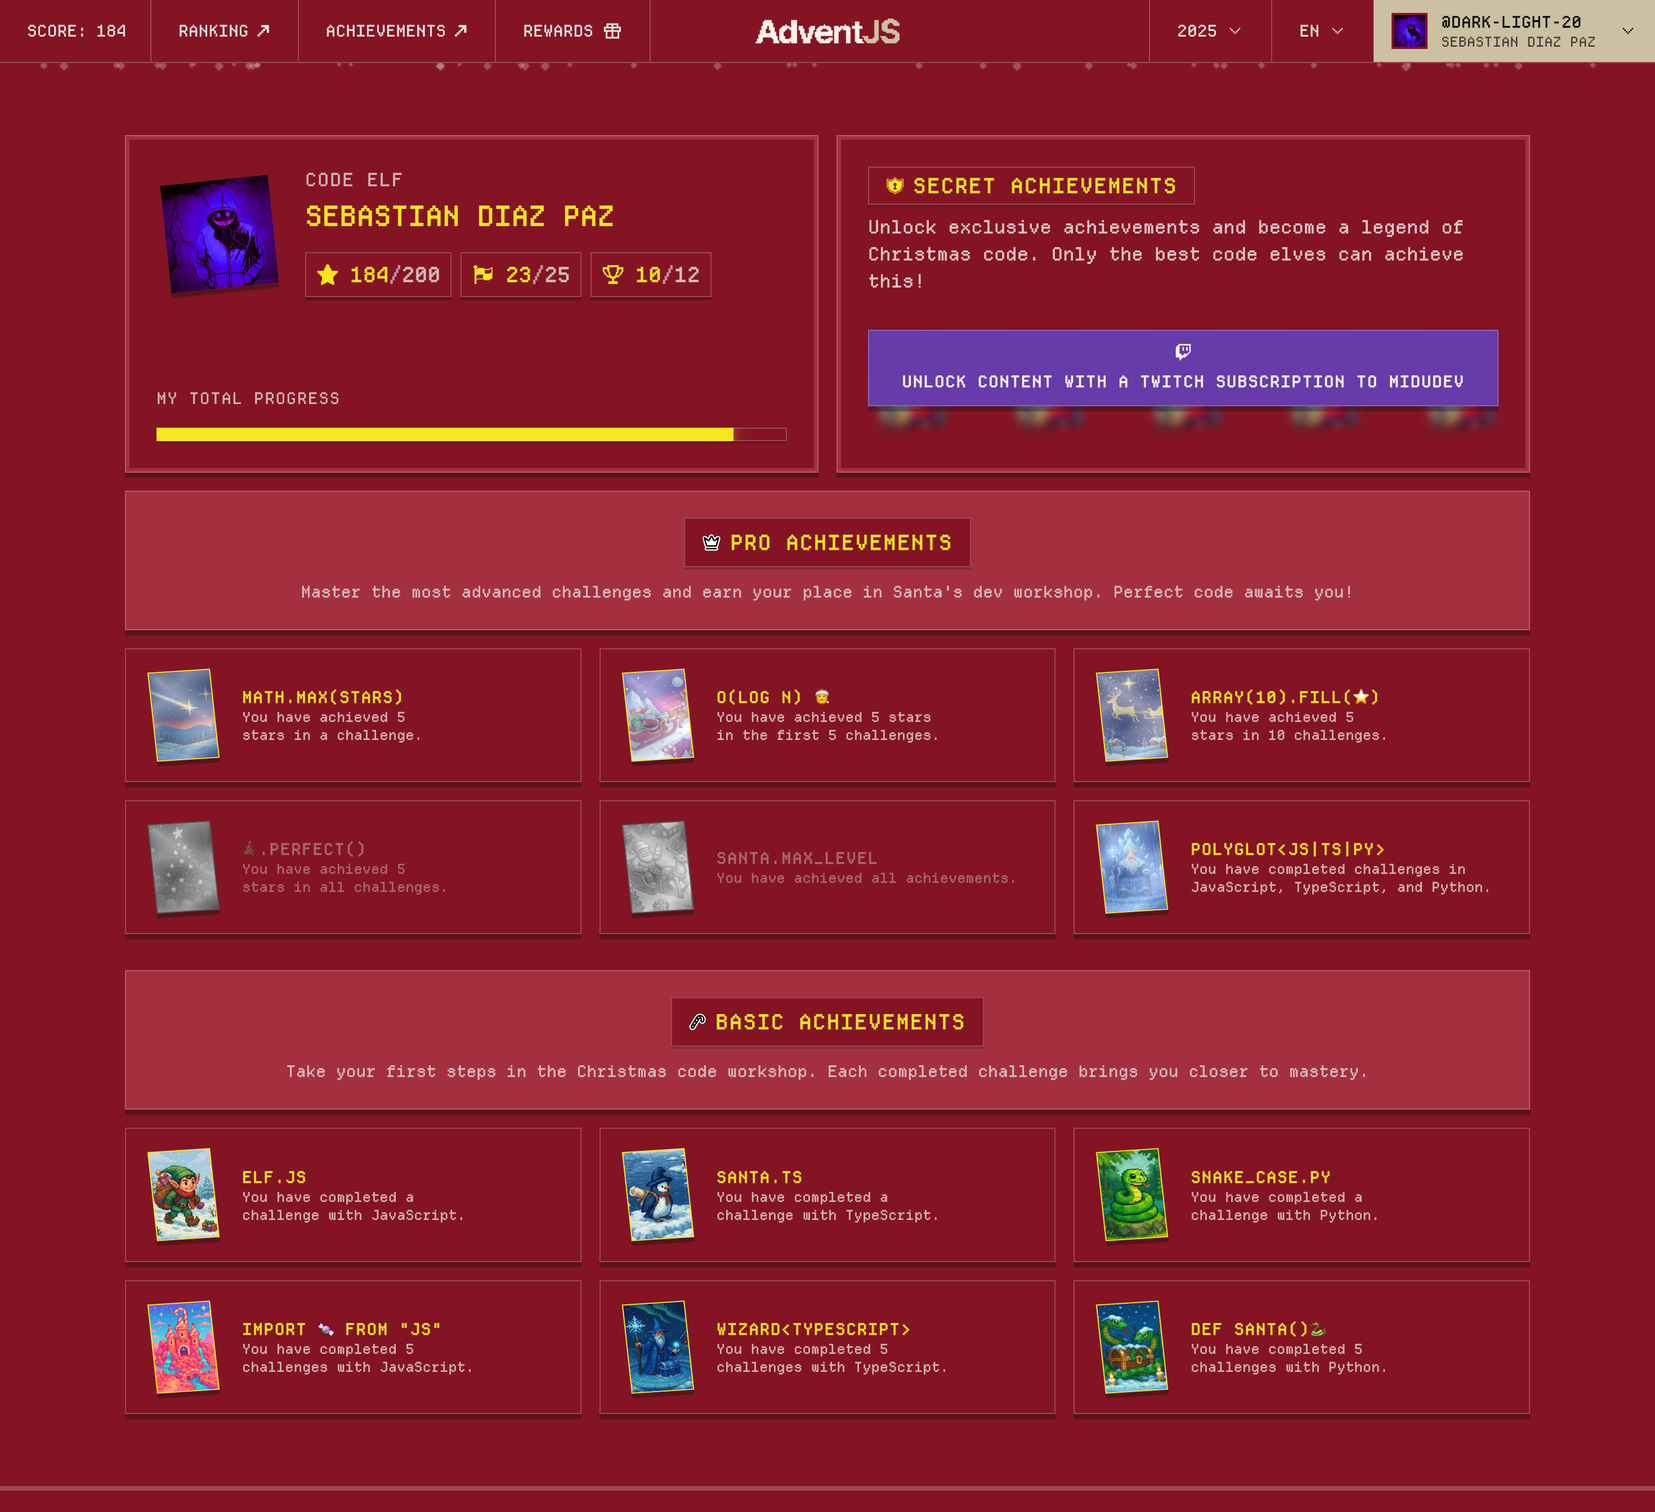
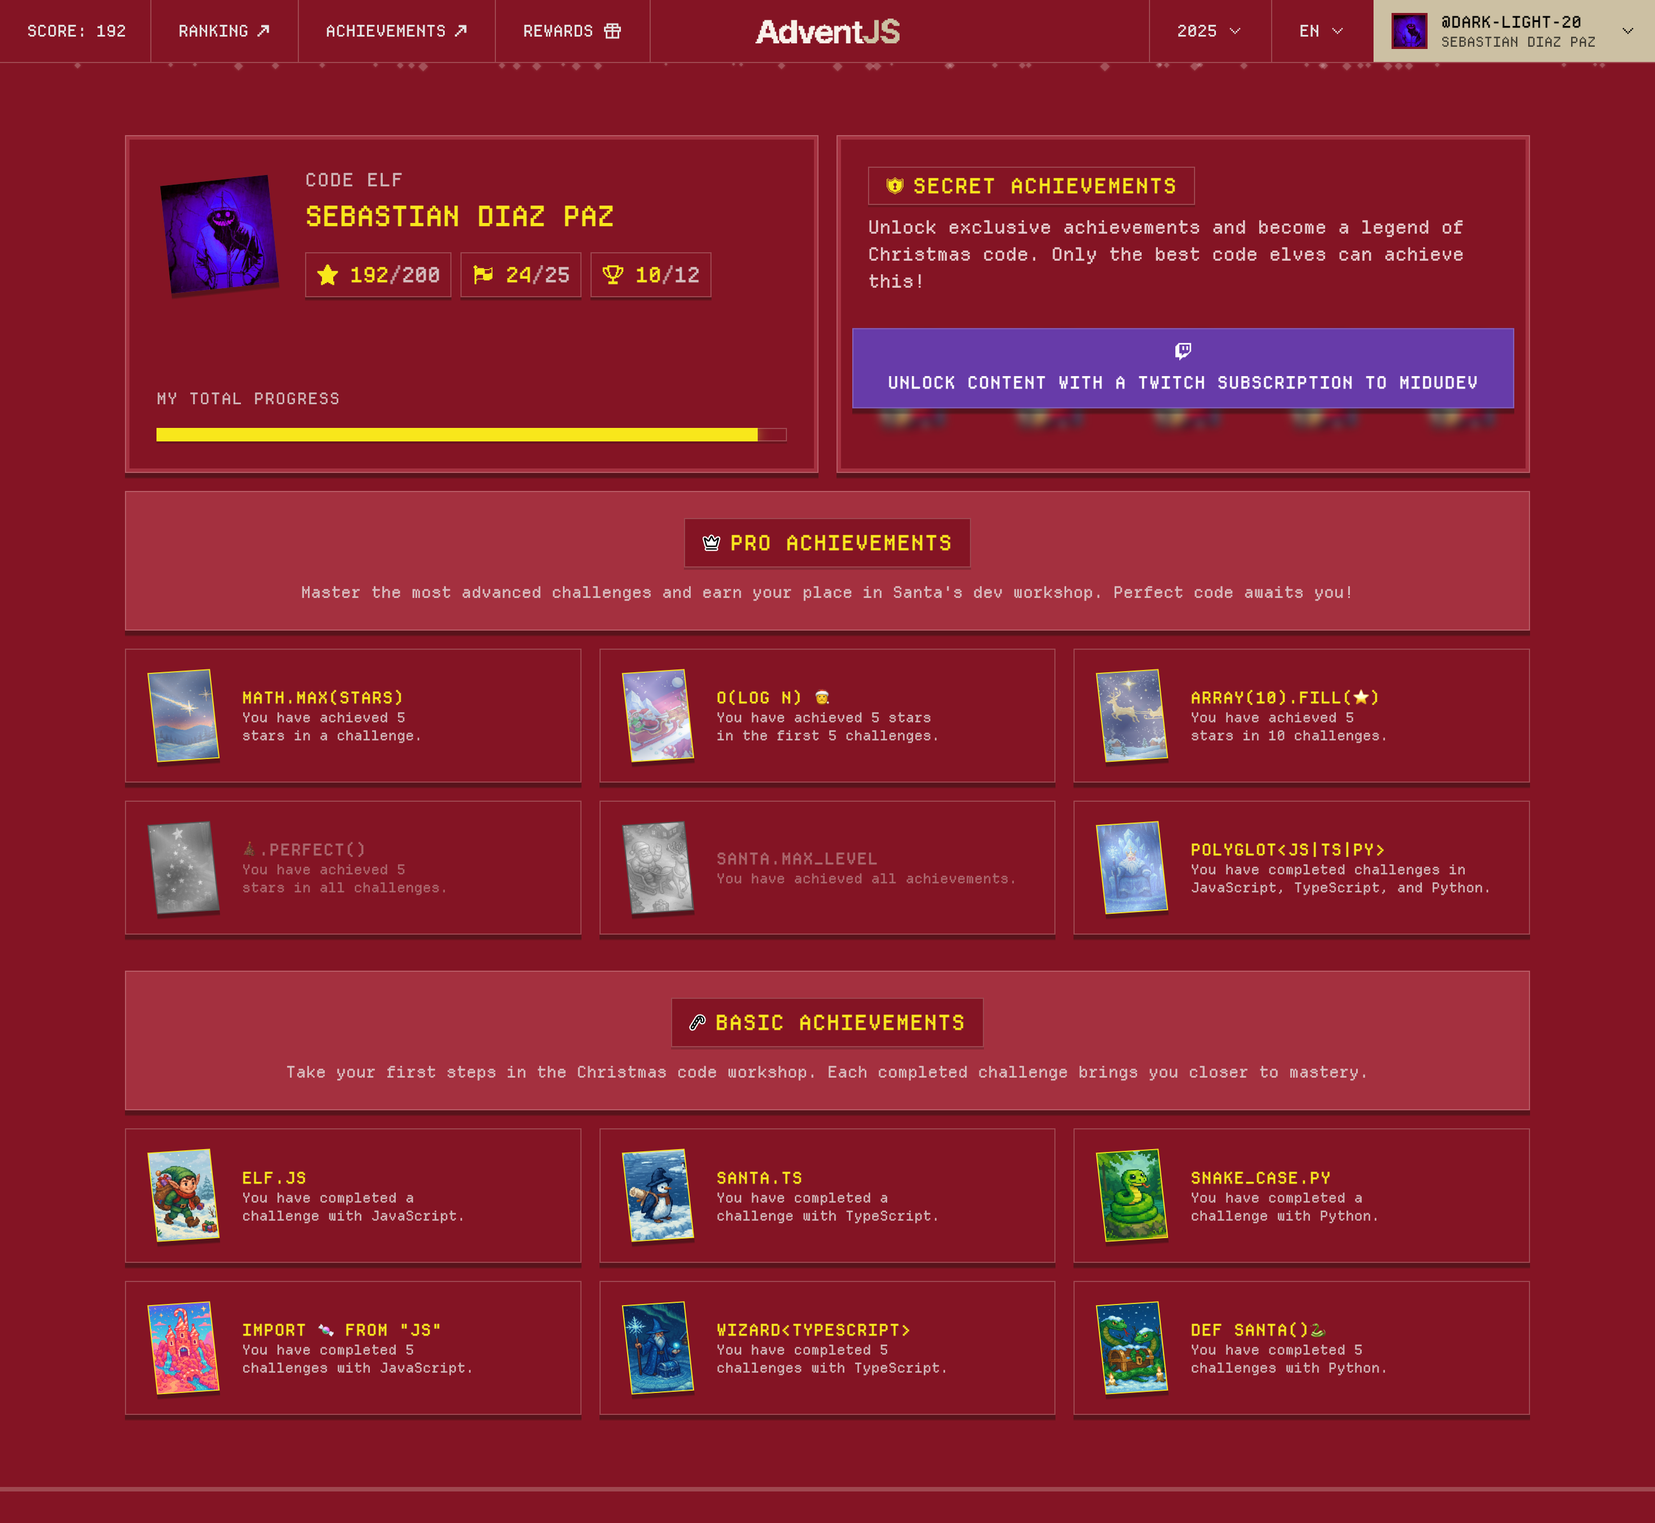
feat: :sparkles: Added challenge 24 solution

diff --git a/solutions/ts/24.ts b/solutions/ts/24.ts
@@ -1,0 +1,68 @@
+type Tree = { value: string; left?: Tree; right?: Tree } | undefined;
+
+function isTreesSynchronized(tree1: Tree, tree2: Tree): [boolean, string] {
+  function validateSync(node1: Tree, node2: Tree): boolean {
+    let subSync1 = true;
+    let subSync2 = true;
+    if (node1?.left && node2?.right) {
+      subSync1 = validateSync(node1.left, node2.right);
+    }
+    if (node1?.right && node2?.left) {
+      subSync2 = validateSync(node1.right, node2.left);
+    }
+    const sameRoot = node1?.value === node2?.value;
+    return sameRoot && subSync1 && subSync2;
+  }
+  const sync = validateSync(tree1, tree2);
+  const firstRoot = tree1!.value;
+  return [sync, firstRoot];
+}
+
+const baseTree1 = {
+  value: "🎄",
+  left: { value: "⭐" },
+  right: { value: "🎅" },
+};
+
+const baseTree2 = {
+  value: "🎄",
+  left: { value: "🎅" },
+  right: { value: "⭐" },
+};
+
+const sync1 = isTreesSynchronized(baseTree1, baseTree2); // [true, '🎄']
+console.log(sync1);
+
+/*
+  tree1          tree2
+   🎄              🎄
+  / \             / \
+⭐   🎅         🎅   ⭐
+*/
+
+const baseTree3 = {
+  value: "🎄",
+  left: { value: "🎅" },
+  right: { value: "🎁" },
+};
+
+const sync2 = isTreesSynchronized(baseTree1, baseTree3); // [false, '🎄']
+console.log(sync2);
+
+const baseTree4 = {
+  value: "🎄",
+  left: { value: "⭐" },
+  right: { value: "🎅" },
+};
+
+const sync3 = isTreesSynchronized(baseTree1, baseTree4); // [false, '🎄']
+console.log(sync3);
+
+const sync4 = isTreesSynchronized({ value: "🎅" }, { value: "🧑🎄" }); // [false, '🎅']
+console.log(sync4);
+
+/* 
+  Score: ★★★★★★★★ (3 bonus stars for solving it today!)
+  Points: 180
+  ops: 3144
+*/

diff --git a/solutions/js/24.js b/solutions/js/24.js
@@ -1,0 +1,71 @@
+/**
+ * @param {object} tree1 - The first binary tree.
+ * @param {object} tree2 - The second binary tree.
+ * @returns {[boolean, string]}
+ */
+function isTreesSynchronized(tree1, tree2) {
+  function validateSync(node1, node2) {
+    let subSync1 = true;
+    let subSync2 = true;
+    if (node1.left && node2.right) {
+      subSync1 = validateSync(node1.left, node2.right);
+    }
+    if (node1.right && node2.left) {
+      subSync2 = validateSync(node1.right, node2.left);
+    }
+    const sameRoot = node1.value === node2.value;
+    return sameRoot && subSync1 && subSync2;
+  }
+  const sync = validateSync(tree1, tree2);
+  const firstRoot = tree1.value;
+  return [sync, firstRoot];
+}
+
+const tree1 = {
+  value: "🎄",
+  left: { value: "⭐" },
+  right: { value: "🎅" },
+};
+
+const tree2 = {
+  value: "🎄",
+  left: { value: "🎅" },
+  right: { value: "⭐" },
+};
+
+const sync1 = isTreesSynchronized(tree1, tree2); // [true, '🎄']
+console.log(sync1);
+
+/*
+  tree1          tree2
+   🎄              🎄
+  / \             / \
+⭐   🎅         🎅   ⭐
+*/
+
+const tree3 = {
+  value: "🎄",
+  left: { value: "🎅" },
+  right: { value: "🎁" },
+};
+
+const sync2 = isTreesSynchronized(tree1, tree3); // [false, '🎄']
+console.log(sync2);
+
+const tree4 = {
+  value: "🎄",
+  left: { value: "⭐" },
+  right: { value: "🎅" },
+};
+
+const sync3 = isTreesSynchronized(tree1, tree4); // [false, '🎄']
+console.log(sync3);
+
+const sync4 = isTreesSynchronized({ value: "🎅" }, { value: "🧑🎄" }); // [false, '🎅']
+console.log(sync4);
+
+/* 
+  Score: ★★★★★★★★ (3 bonus stars for solving it today!)
+  Points: 80
+  ops: 1941
+*/

diff --git a/solutions/python/24.py b/solutions/python/24.py
@@ -1,0 +1,65 @@
+def is_trees_synchronized(tree1, tree2):
+    def validate_sync(node1, node2):
+        sub_sync_1 = True
+        sub_sync_2 = True
+        if (node1.get("left") and node2.get("right")):
+            sub_sync_1 = validate_sync(node1.get("left"), node2.get("right"))
+        if (node1.get("right") and node2.get("left")):
+            sub_sync_2 = validate_sync(node1.get("right"), node2.get("left"))
+        same_root = node1.get("value") == node2.get("value")
+        return same_root and sub_sync_1 and sub_sync_2
+
+    sync = validate_sync(tree1, tree2)
+    first_root = tree1["value"]
+    return [sync, first_root]
+
+
+tree1 = {
+    "value": "🎄",
+    "left": {"value": "⭐"},
+    "right": {"value": "🎅"},
+}
+
+tree2 = {
+    "value": "🎄",
+    "left": {"value": "🎅"},
+    "right": {"value": "⭐"},
+}
+
+sync1 = is_trees_synchronized(tree1, tree2)  # [true, '🎄']
+print(sync1)
+
+"""
+  tree1          tree2
+   🎄              🎄
+  / \             / \
+⭐   🎅         🎅   ⭐
+"""
+
+tree3 = {
+    "value": "🎄",
+    "left": {"value": "🎅"},
+    "right": {"value": "🎁"},
+}
+
+sync2 = is_trees_synchronized(tree1, tree3)  # [false, '🎄']
+print(sync2)
+
+tree4 = {
+    "value": "🎄",
+    "left": {"value": "⭐"},
+    "right": {"value": "🎅"},
+}
+
+sync3 = is_trees_synchronized(tree1, tree4)  # [false, '🎄']
+print(sync3)
+
+sync4 = is_trees_synchronized({"value": "🎅"}, {"value": "🧑🎄"})  # [false, '🎅']
+print(sync4)
+
+
+"""
+  Score: ★★★★★★★ (3 bonus stars for solving it today!)
+  Points: 180
+  ops: 3333
+"""

diff --git a/README.md b/README.md
@@ -6,34 +6,34 @@ This repository contains my solutions to **25** challenges proposed by [Midudev]
 
 ## Challenges list
 
-| Challenge | Title                            | Difficulty | Description                     | JavaScript Solution               | TypeScript Solution               | Python Solution                       |
-| --------- | -------------------------------- | ---------- | ------------------------------- | --------------------------------- | --------------------------------- | ------------------------------------- |
-| #1        | 🎁 Filter the defective gifts    | 🟢 Easy    | [Description](challenges/01.md) | [JS Solution](solutions/js/01.js) | [TS Solution](solutions/ts/01.ts) | [Py Solution](solutions/python/01.py) |
-| #2        | 🏭 Manufacture the toys          | 🟢 Easy    | [Description](challenges/02.md) | [JS Solution](solutions/js/02.js) | [TS Solution](solutions/ts/02.ts) | [Py Solution](solutions/python/02.py) |
-| #3        | 👶 Help the intern               | 🟢 Easy    | [Description](challenges/03.md) | [JS Solution](solutions/js/03.js) | [TS Solution](solutions/ts/03.ts) | [Py Solution](solutions/python/03.py) |
-| #4        | 🧮 Decipher the Santa PIN        | 🟠 Medium  | [Description](challenges/04.md) | [JS Solution](solutions/js/04.js) | [TS Solution](solutions/ts/04.ts) | [Py Solution](solutions/python/04.py) |
-| #5        | ⏱ The countdown to take off     | 🟢 Easy    | [Description](challenges/05.md) | [JS Solution](solutions/js/05.js) | [TS Solution](solutions/ts/05.ts) | [Py Solution](solutions/python/05.py) |
-| #6        | 🧤 Matching gloves               | 🟢 Easy    | [Description](challenges/06.md) | [JS Solution](solutions/js/06.js) | [TS Solution](solutions/ts/06.ts) | [Py Solution](solutions/python/06.py) |
-| #7        | 🎄 Decorating the tree           | 🟢 Easy    | [Description](challenges/07.md) | [JS Solution](solutions/js/07.js) | [TS Solution](solutions/ts/07.ts) | [Py Solution](solutions/python/07.py) |
-| #8        | 🎁 Find the unique toy           | 🟢 Easy    | [Description](challenges/08.md) | [JS Solution](solutions/js/08.js) | [TS Solution](solutions/ts/08.ts) | [Py Solution](solutions/python/08.py) |
-| #9        | 🦌 The reno robot aspirator      | 🔴 Hard    | [Description](challenges/09.md) | [JS Solution](solutions/js/09.js) | [TS Solution](solutions/ts/09.ts) | [Py Solution](solutions/python/09.py) |
-| #10       | 📨 Depth of Christmas magic      | 🟢 Easy    | [Description](challenges/10.md) | [JS Solution](solutions/js/10.js) | [TS Solution](solutions/ts/10.ts) | [Py Solution](solutions/python/10.py) |
-| #11       | 📹 Unwatched gifts               | 🟢 Easy    | [Description](challenges/11.md) | [JS Solution](solutions/js/11.js) | [TS Solution](solutions/ts/11.ts) | [Py Solution](solutions/python/11.py) |
-| #12       | ⚔ Elf battle                    | 🟠 Medium  | [Description](challenges/12.md) | [JS Solution](solutions/js/12.js) | [TS Solution](solutions/ts/12.ts) | [Py Solution](solutions/python/12.py) |
-| #13       | 🏭 The assembly line             | 🟠 Medium  | [Description](challenges/13.md) | [JS Solution](solutions/js/13.js) | [TS Solution](solutions/ts/13.ts) | [Py Solution](solutions/python/13.py) |
-| #14       | 🗃 Find the gift path            | 🟢 Easy    | [Description](challenges/14.md) | [JS Solution](solutions/js/14.js) | [TS Solution](solutions/ts/14.ts) | [Py Solution](solutions/python/14.py) |
-| #15       | ✏ Drawing tables                | 🟠 Medium  | [Description](challenges/15.md) | [JS Solution](solutions/js/15.js) | [TS Solution](solutions/ts/15.ts) | [Py Solution](solutions/python/15.py) |
-| #16       | 🎁 Packing gifts for Santa       | 🟢 Easy    | [Description](challenges/16.md) | [JS Solution](solutions/js/16.js) | [TS Solution](solutions/ts/16.ts) | [Py Solution](solutions/python/16.py) |
-| #17       | 🎄 The Christmas lights panel    | 🟢 Easy    | [Description](challenges/17.md) | [JS Solution](solutions/js/17.js) | [TS Solution](solutions/ts/17.ts) | [Py Solution](solutions/python/17.py) |
-| #18       | 🎄 Lights in line with diagonals | 🟠 Medium  | [Description](challenges/18.md) | [JS Solution](solutions/js/18.js) | [TS Solution](solutions/ts/18.ts) | [Py Solution](solutions/python/18.py) |
-| #19       | 🎄 Santa's Secret Journey        | 🟢 Easy    | [Description](challenges/19.md) | [JS Solution](solutions/js/19.js) | [TS Solution](solutions/ts/19.ts) | [Py Solution](solutions/python/19.py) |
-| #20       | 🎁 Vertical warehouse            | 🟢 Easy    | [Description](challenges/20.md) | [JS Solution](solutions/js/20.js) | [TS Solution](solutions/ts/20.ts) | [Py Solution](solutions/python/20.py) |
-| #21       | 🤖 The cleaning robot            | 🟠 Medium  | [Description](challenges/21.md) | [JS Solution](solutions/js/21.js) | [TS Solution](solutions/ts/21.ts) | [Py Solution](solutions/python/21.py) |
-| #22       | 🎄 The sleigh maze               | 🔴 Hard    | [Description](challenges/22.md) | [JS Solution](solutions/js/22.js) | [TS Solution](solutions/ts/22.ts) | [Py Solution](solutions/python/22.py) |
-| #23       | 🎁 Gift route                    | 🟠 Medium  | [Description](challenges/23.md) | [JS Solution](solutions/js/23.js) | [TS Solution](solutions/ts/23.ts) | [Py Solution](solutions/python/23.py) |
-| #24       |                                  | ⚪ Unknow | [Description](challenges/24.md) | [JS Solution](solutions/js/24.js) | [TS Solution](solutions/ts/24.ts) | [Py Solution](solutions/python/24.py) |
-| #25       |                                  | ⚪ Unknow | [Description](challenges/25.md) | [JS Solution](solutions/js/25.js) | [TS Solution](solutions/ts/25.ts) | [Py Solution](solutions/python/25.py) |
-| #26       |                                  | ⚪ Unknow | [Description](challenges/26.md) | [JS Solution](solutions/js/26.js) | [TS Solution](solutions/ts/26.ts) | [Py Solution](solutions/python/26.py) |
+| Challenge | Title                                 | Difficulty | Description                     | JavaScript Solution               | TypeScript Solution               | Python Solution                       |
+| --------- | ------------------------------------- | ---------- | ------------------------------- | --------------------------------- | --------------------------------- | ------------------------------------- |
+| #1        | 🎁 Filter the defective gifts         | 🟢 Easy    | [Description](challenges/01.md) | [JS Solution](solutions/js/01.js) | [TS Solution](solutions/ts/01.ts) | [Py Solution](solutions/python/01.py) |
+| #2        | 🏭 Manufacture the toys               | 🟢 Easy    | [Description](challenges/02.md) | [JS Solution](solutions/js/02.js) | [TS Solution](solutions/ts/02.ts) | [Py Solution](solutions/python/02.py) |
+| #3        | 👶 Help the intern                    | 🟢 Easy    | [Description](challenges/03.md) | [JS Solution](solutions/js/03.js) | [TS Solution](solutions/ts/03.ts) | [Py Solution](solutions/python/03.py) |
+| #4        | 🧮 Decipher the Santa PIN             | 🟠 Medium  | [Description](challenges/04.md) | [JS Solution](solutions/js/04.js) | [TS Solution](solutions/ts/04.ts) | [Py Solution](solutions/python/04.py) |
+| #5        | ⏱ The countdown to take off          | 🟢 Easy    | [Description](challenges/05.md) | [JS Solution](solutions/js/05.js) | [TS Solution](solutions/ts/05.ts) | [Py Solution](solutions/python/05.py) |
+| #6        | 🧤 Matching gloves                    | 🟢 Easy    | [Description](challenges/06.md) | [JS Solution](solutions/js/06.js) | [TS Solution](solutions/ts/06.ts) | [Py Solution](solutions/python/06.py) |
+| #7        | 🎄 Decorating the tree                | 🟢 Easy    | [Description](challenges/07.md) | [JS Solution](solutions/js/07.js) | [TS Solution](solutions/ts/07.ts) | [Py Solution](solutions/python/07.py) |
+| #8        | 🎁 Find the unique toy                | 🟢 Easy    | [Description](challenges/08.md) | [JS Solution](solutions/js/08.js) | [TS Solution](solutions/ts/08.ts) | [Py Solution](solutions/python/08.py) |
+| #9        | 🦌 The reno robot aspirator           | 🔴 Hard    | [Description](challenges/09.md) | [JS Solution](solutions/js/09.js) | [TS Solution](solutions/ts/09.ts) | [Py Solution](solutions/python/09.py) |
+| #10       | 📨 Depth of Christmas magic           | 🟢 Easy    | [Description](challenges/10.md) | [JS Solution](solutions/js/10.js) | [TS Solution](solutions/ts/10.ts) | [Py Solution](solutions/python/10.py) |
+| #11       | 📹 Unwatched gifts                    | 🟢 Easy    | [Description](challenges/11.md) | [JS Solution](solutions/js/11.js) | [TS Solution](solutions/ts/11.ts) | [Py Solution](solutions/python/11.py) |
+| #12       | ⚔ Elf battle                         | 🟠 Medium  | [Description](challenges/12.md) | [JS Solution](solutions/js/12.js) | [TS Solution](solutions/ts/12.ts) | [Py Solution](solutions/python/12.py) |
+| #13       | 🏭 The assembly line                  | 🟠 Medium  | [Description](challenges/13.md) | [JS Solution](solutions/js/13.js) | [TS Solution](solutions/ts/13.ts) | [Py Solution](solutions/python/13.py) |
+| #14       | 🗃 Find the gift path                 | 🟢 Easy    | [Description](challenges/14.md) | [JS Solution](solutions/js/14.js) | [TS Solution](solutions/ts/14.ts) | [Py Solution](solutions/python/14.py) |
+| #15       | ✏ Drawing tables                     | 🟠 Medium  | [Description](challenges/15.md) | [JS Solution](solutions/js/15.js) | [TS Solution](solutions/ts/15.ts) | [Py Solution](solutions/python/15.py) |
+| #16       | 🎁 Packing gifts for Santa            | 🟢 Easy    | [Description](challenges/16.md) | [JS Solution](solutions/js/16.js) | [TS Solution](solutions/ts/16.ts) | [Py Solution](solutions/python/16.py) |
+| #17       | 🎄 The Christmas lights panel         | 🟢 Easy    | [Description](challenges/17.md) | [JS Solution](solutions/js/17.js) | [TS Solution](solutions/ts/17.ts) | [Py Solution](solutions/python/17.py) |
+| #18       | 🎄 Lights in line with diagonals      | 🟠 Medium  | [Description](challenges/18.md) | [JS Solution](solutions/js/18.js) | [TS Solution](solutions/ts/18.ts) | [Py Solution](solutions/python/18.py) |
+| #19       | 🎄 Santa's Secret Journey             | 🟢 Easy    | [Description](challenges/19.md) | [JS Solution](solutions/js/19.js) | [TS Solution](solutions/ts/19.ts) | [Py Solution](solutions/python/19.py) |
+| #20       | 🎁 Vertical warehouse                 | 🟢 Easy    | [Description](challenges/20.md) | [JS Solution](solutions/js/20.js) | [TS Solution](solutions/ts/20.ts) | [Py Solution](solutions/python/20.py) |
+| #21       | 🤖 The cleaning robot                 | 🟠 Medium  | [Description](challenges/21.md) | [JS Solution](solutions/js/21.js) | [TS Solution](solutions/ts/21.ts) | [Py Solution](solutions/python/21.py) |
+| #22       | 🎄 The sleigh maze                    | 🔴 Hard    | [Description](challenges/22.md) | [JS Solution](solutions/js/22.js) | [TS Solution](solutions/ts/22.ts) | [Py Solution](solutions/python/22.py) |
+| #23       | 🎁 Gift route                         | 🟠 Medium  | [Description](challenges/23.md) | [JS Solution](solutions/js/23.js) | [TS Solution](solutions/ts/23.ts) | [Py Solution](solutions/python/23.py) |
+| #24       | 🪞 Check if trees are magical mirrors | 🟠 Medium  | [Description](challenges/24.md) | [JS Solution](solutions/js/24.js) | [TS Solution](solutions/ts/24.ts) | [Py Solution](solutions/python/24.py) |
+| #25       |                                       | ⚪ Unknow | [Description](challenges/25.md) | [JS Solution](solutions/js/25.js) | [TS Solution](solutions/ts/25.ts) | [Py Solution](solutions/python/25.py) |
+| #26       |                                       | ⚪ Unknow | [Description](challenges/26.md) | [JS Solution](solutions/js/26.js) | [TS Solution](solutions/ts/26.ts) | [Py Solution](solutions/python/26.py) |
 
 ## Achievements
 

diff --git a/challenges/24.md b/challenges/24.md
@@ -1,0 +1,76 @@
+# Challenge #24: 🪞 Check if trees are magical mirrors
+
+<small>Medium</small>
+
+At the North Pole, the elves have **two magical binary trees that generate energy** 🌲🌲 to keep the Christmas star ⭐ shining. However, for them to work properly, the trees must be in perfect sync **like mirrors 🪞.**
+
+**Two binary trees are mirrors if:**
+
+- The roots of both trees have the same value.
+- Each node of the first tree must have its corresponding node in the opposite position in the second tree.
+
+And the tree is represented with three properties `value`, `left`, and `right`. The latter two display the remaining branches (if any):
+
+```javascript
+const tree = {
+  value: "⭐",
+  left: {
+    value: "🎅",
+    // left: {...}
+    // right: { ... }
+  },
+  right: {
+    value: "🎁",
+    // left: { ... }
+    // right: { ...&nbsp;}
+  },
+};
+```
+
+Santa needs your help to verify if the trees are synchronized so that the star can keep shining. **You must return an array** where the **first position indicates if the trees are synchronized** and the **second position returns the value of the root of the first tree**.
+
+🧩 Examples
+
+```javascript
+const tree1 = {
+  value: '🎄',
+  left: { value: '⭐' },
+  right: { value: '🎅' }
+}
+
+const tree2 = {
+  value: '🎄',
+  left: { value: '🎅' }
+  right: { value: '⭐' },
+}
+
+isTreesSynchronized(tree1, tree2) // [true, '🎄']
+
+/*
+  tree1          tree2
+   🎄              🎄
+  / \             / \
+⭐   🎅         🎅   ⭐
+*/
+
+const tree3 = {
+  value: '🎄',
+  left: { value: '🎅' },
+  right: { value: '🎁' }
+}
+
+isTreesSynchronized(tree1, tree3) // [false, '🎄']
+
+const tree4 = {
+  value: '🎄',
+  left: { value: '⭐' },
+  right: { value: '🎅' }
+}
+
+isTreesSynchronized(tree1, tree4) // [false, '🎄']
+
+isTreesSynchronized(
+  { value: '🎅' },
+  { value: '🧑🎄' }
+) // [false, '🎅']
+```
